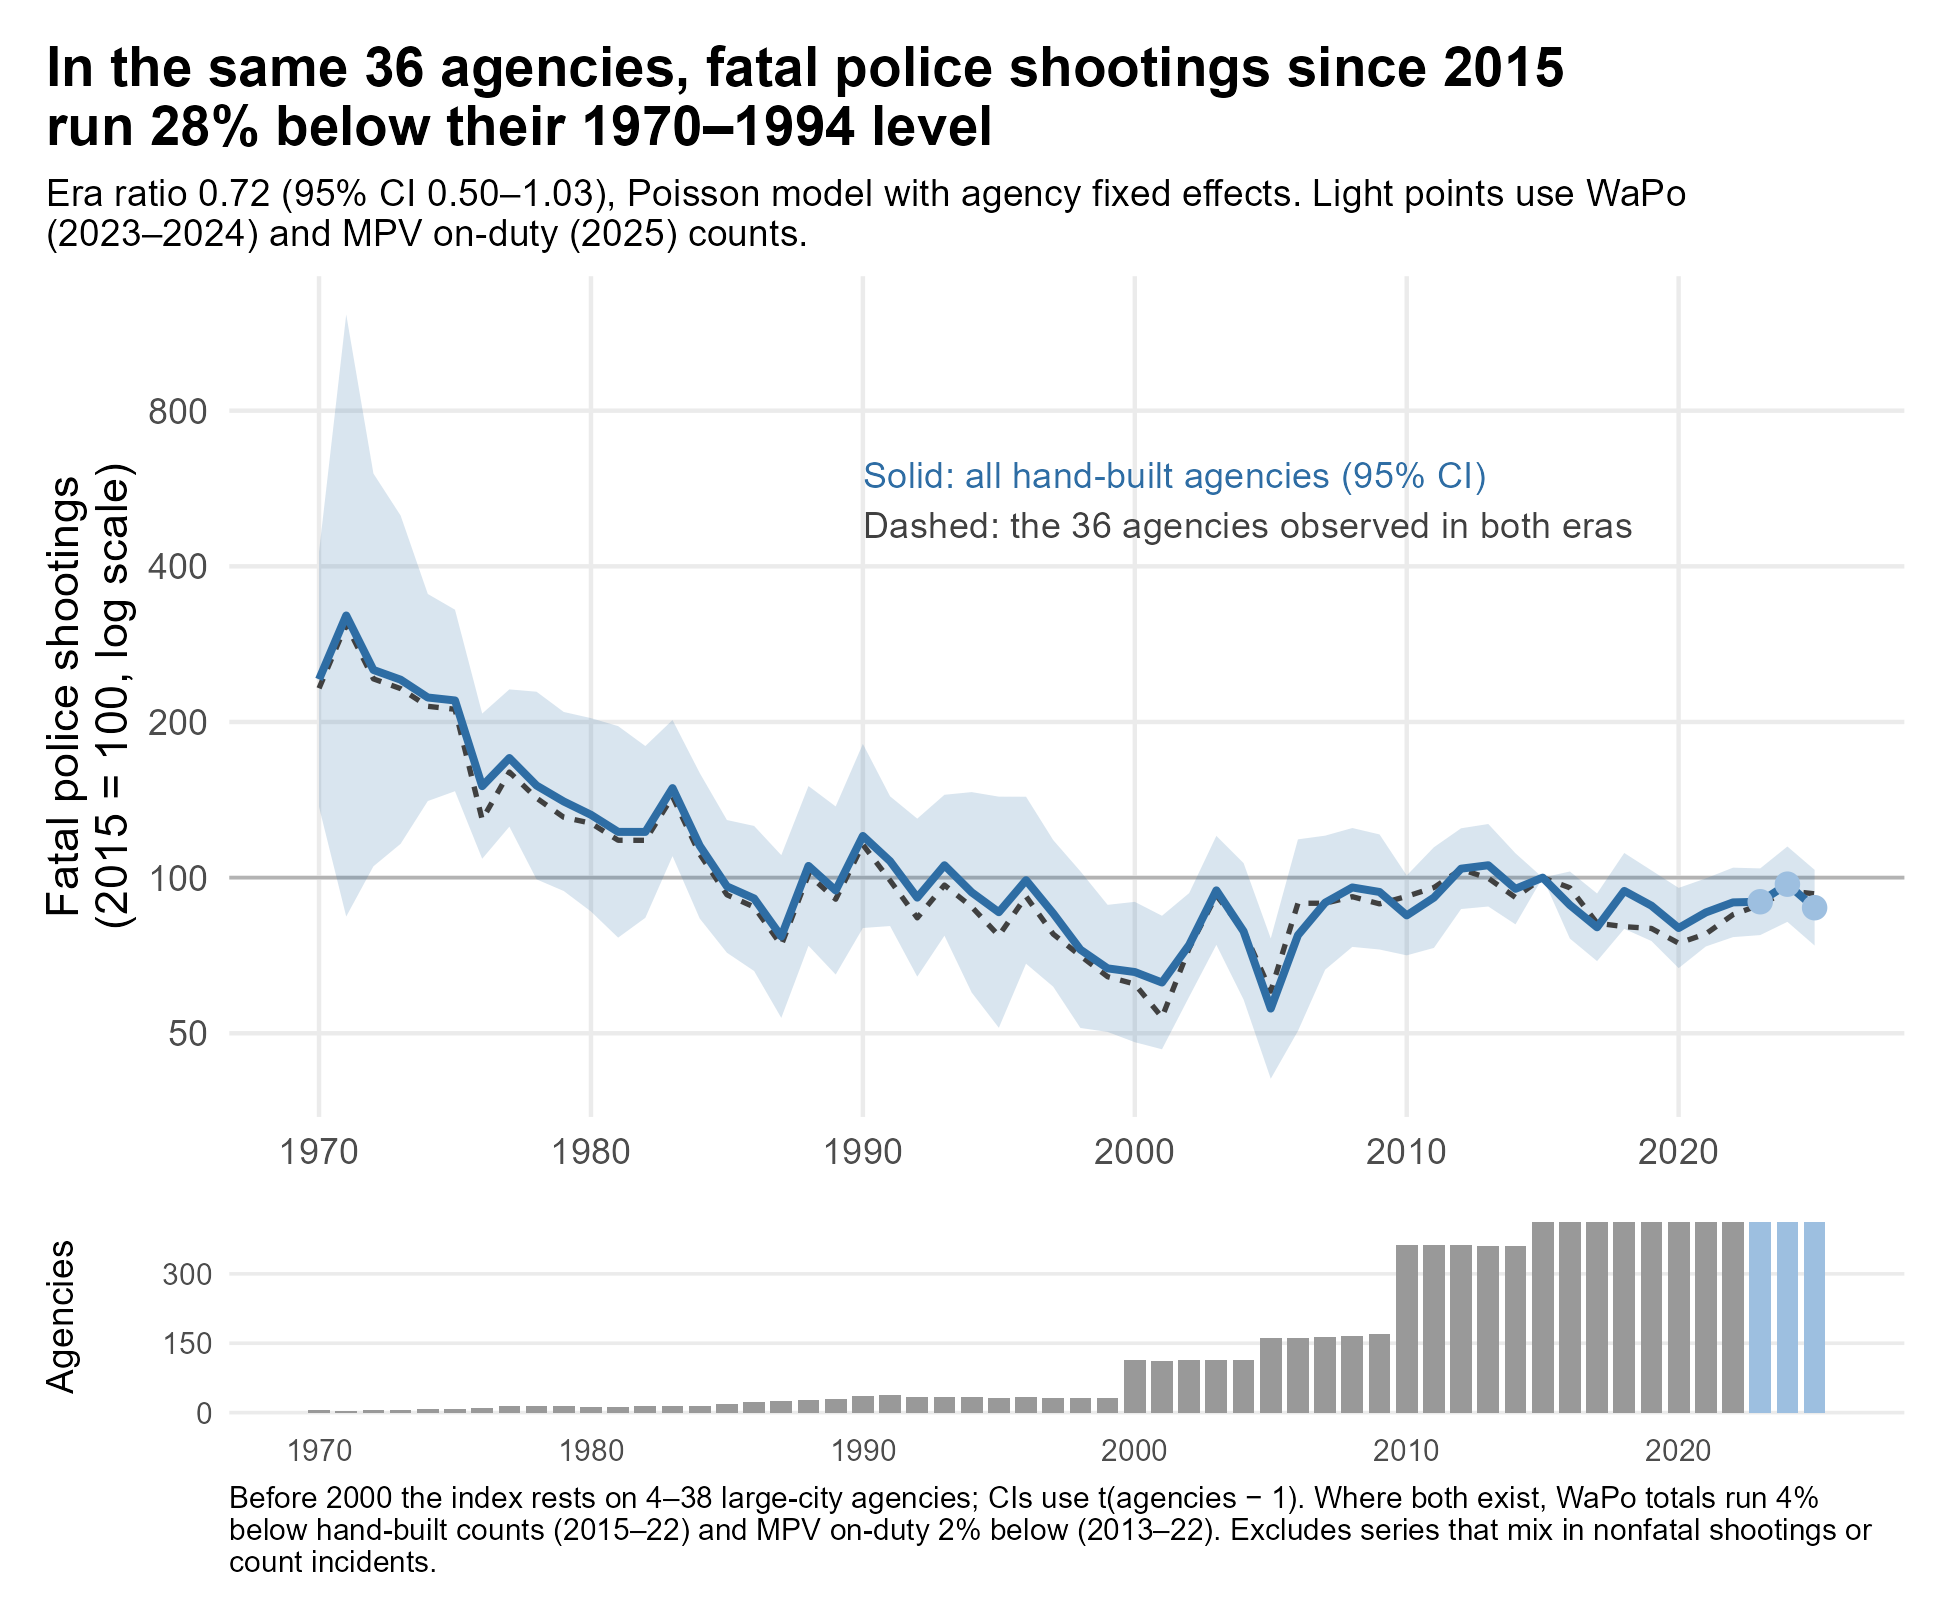
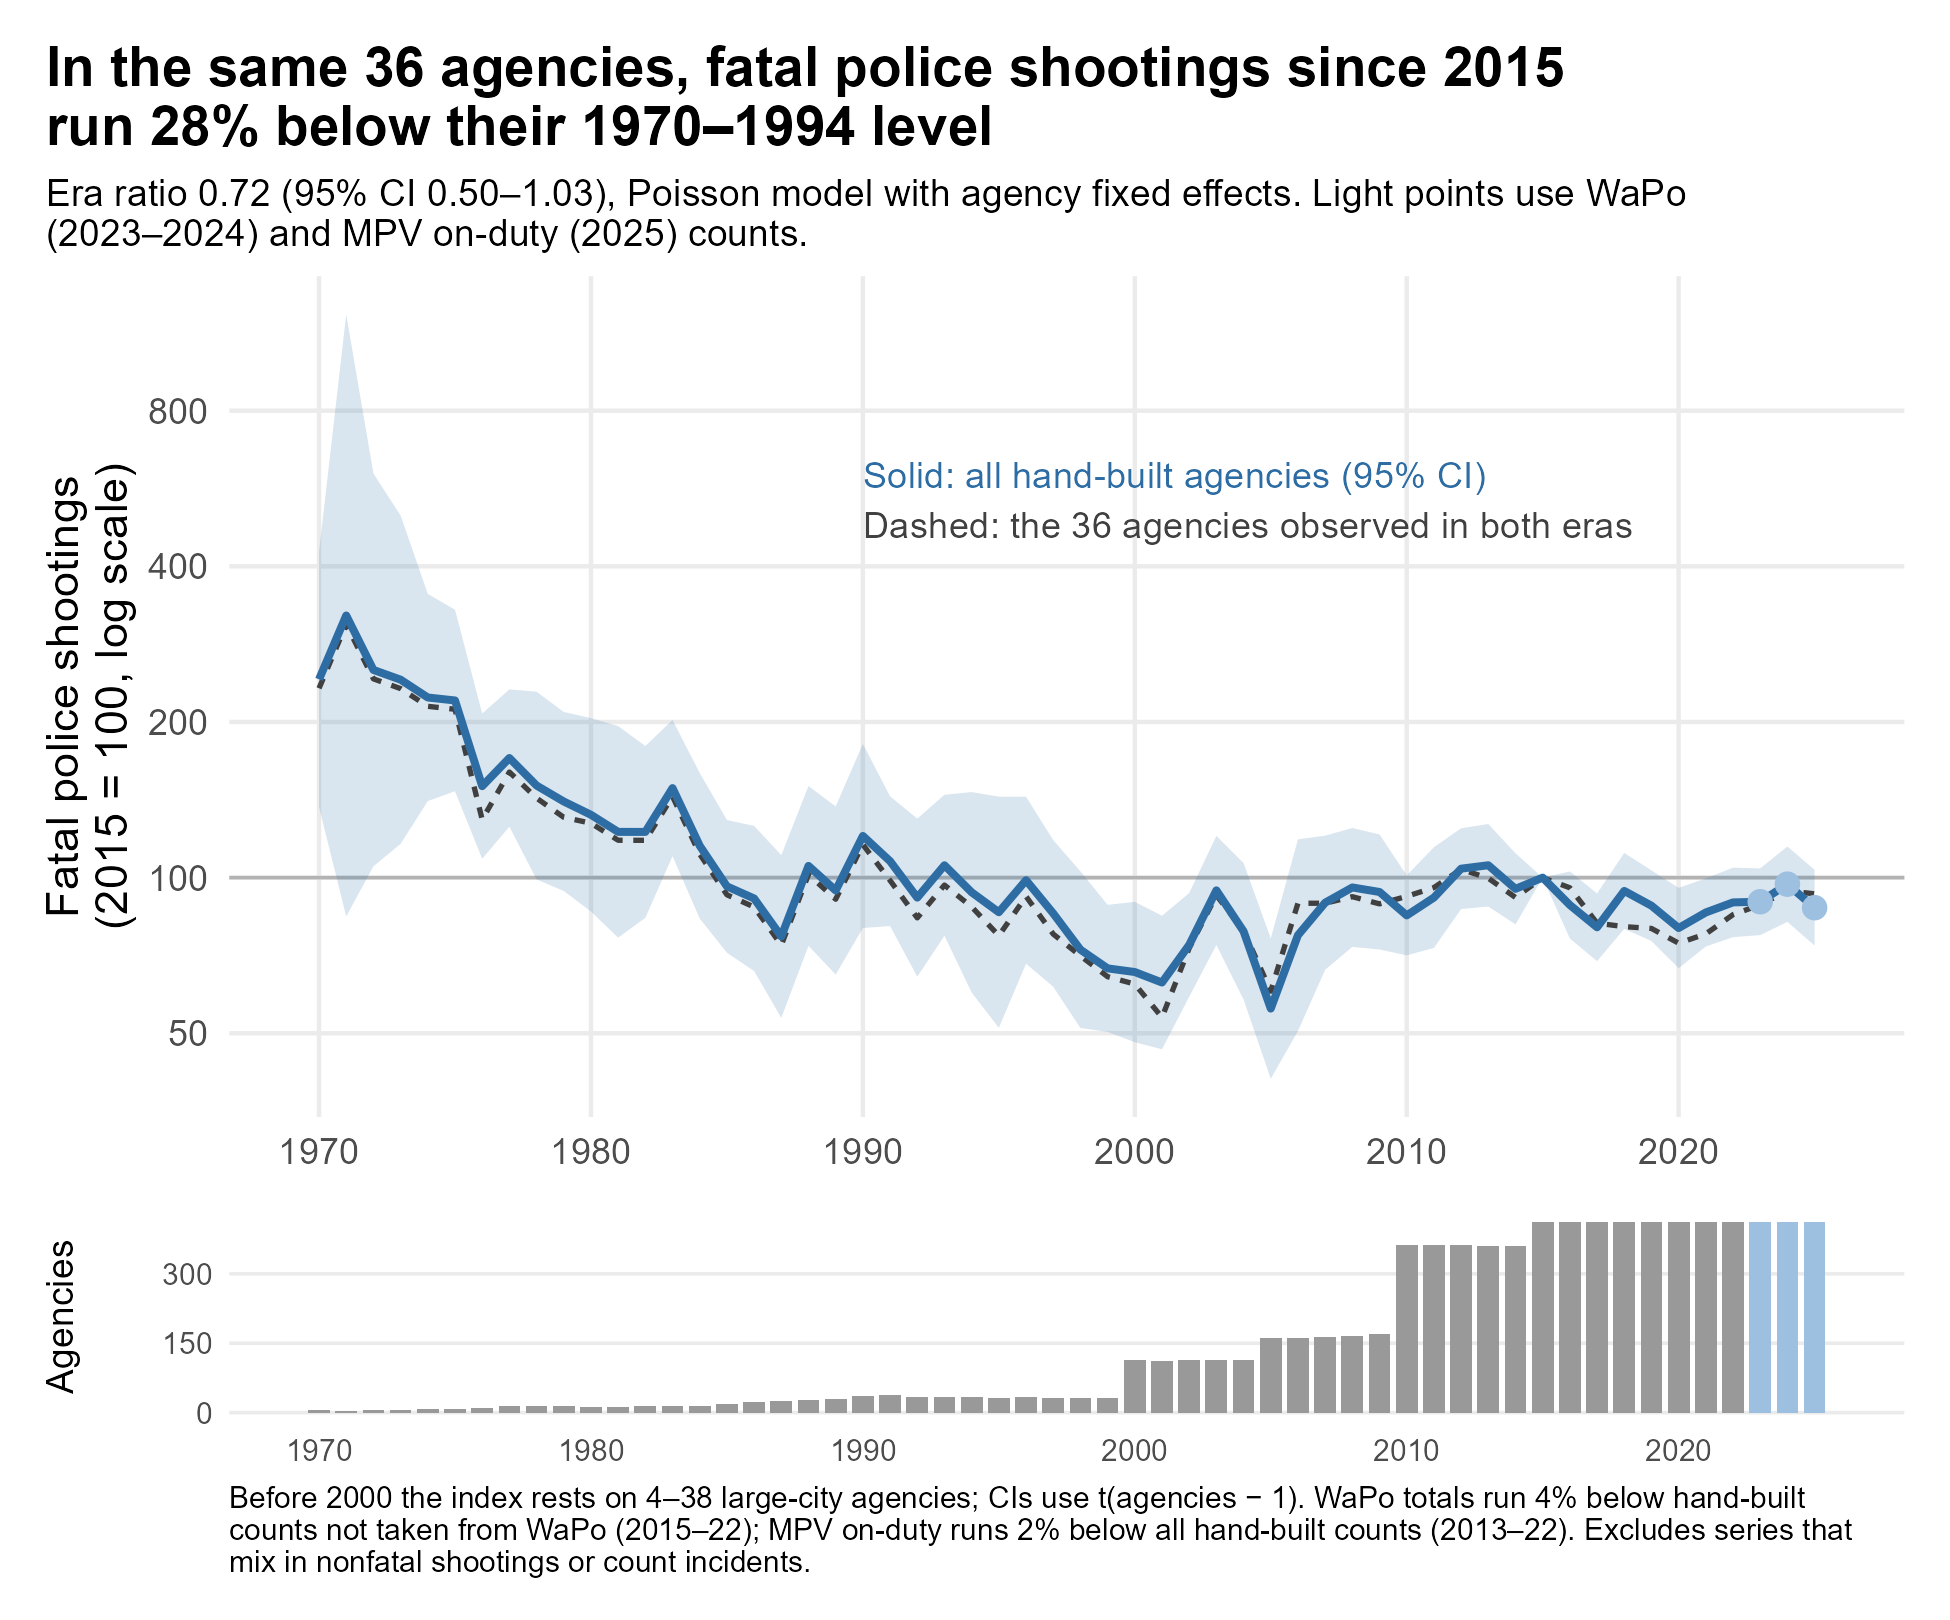
Compare WaPo only against hand-built counts not taken from WaPo
Adds data/crosswalks/nix_nonwapo_sources.csv (Georgia AJC 2015-20,
Minnesota Star Tribune, Hawaii Civil Beat, and NYPD/SFPD/Houston/
Dallas/Springfield MO department data) and a "Hand-built (non-WaPo
sources) vs WaPo" agreement row: 247 agencies, 1,688 agency-years,
WaPo 4.2% fewer, 74% exact in years with a death. The README table
and the trend-figure caption now use this independent row.

Claude-Session: https://claude.ai/code/session_01HYdS39HijhNh5V2fQRzqZG

Changed region(s): [[0.1231, 0.8951, 0.9538, 0.9877]]

diff --git a/README.md b/README.md
@@ -49,12 +49,12 @@ Where they overlap, the sources mostly agree. Each row compares a national sourc
 
 | Compared with the hand-built counts | Years | Agency-years | Its total deaths | Same count, in years either recorded a death |
 |---|---|---:|---|---:|
-| *Washington Post* | 2015–2022 | 2,641 | 4.0% fewer | 87% |
+| *Washington Post*, against hand-built counts not taken from WaPo | 2015–2022 | 1,688 | 4.2% fewer | 74% |
 | Fatal Encounters | 2000–2021 | 5,595 | 1.3% fewer | 69% |
 | Mapping Police Violence (on-duty) | 2013–2022 | 3,357 | 2.2% fewer | 71% |
 | FBI SHR | 1976–2022 | 3,450 | 26.7% fewer | 33% |
 
-Most agency-years have no deaths in either source, which makes any two sources look alike. The last column drops those years, so it's the tougher test. The WaPo row is not an independent check: most hand-built counts for 2015–22 were taken from WaPo itself. They differ mainly where I used a newspaper database or an agency's own data instead (see [Background](#background)), and where WaPo has revised its records since I copied them. Fatal Encounters and MPV are the independent comparisons.
+Most agency-years have no deaths in either source, which makes any two sources look alike. The last column drops those years, so it's the tougher test. Most hand-built counts for 2015–22 were copied from WaPo, so the WaPo row uses only the agency-years whose counts came from another documented source: the Georgia, Minnesota, and Hawaii newspaper databases and the NYPD, San Francisco, Houston, Dallas, and Springfield (MO) department data ([`nix_nonwapo_sources.csv`](data/crosswalks/nix_nonwapo_sources.csv)). Against all hand-built counts, which are mostly WaPo's own, WaPo matches in 87% of years with a death.
 - **FE runs about 9% above WaPo** in the hand-built agencies, 2015–2021.
 - **MPV's gap drifts:** 8–10% below the hand-built counts in 2013–15, and 3–9% above in 2020–22 ([`mpv_drift.csv`](output/tables/mpv_drift.csv)). That's why the trend figures prefer WaPo where it exists.
 - Agencies that WaPo lists under several ORIs (mostly state police) are left out.
